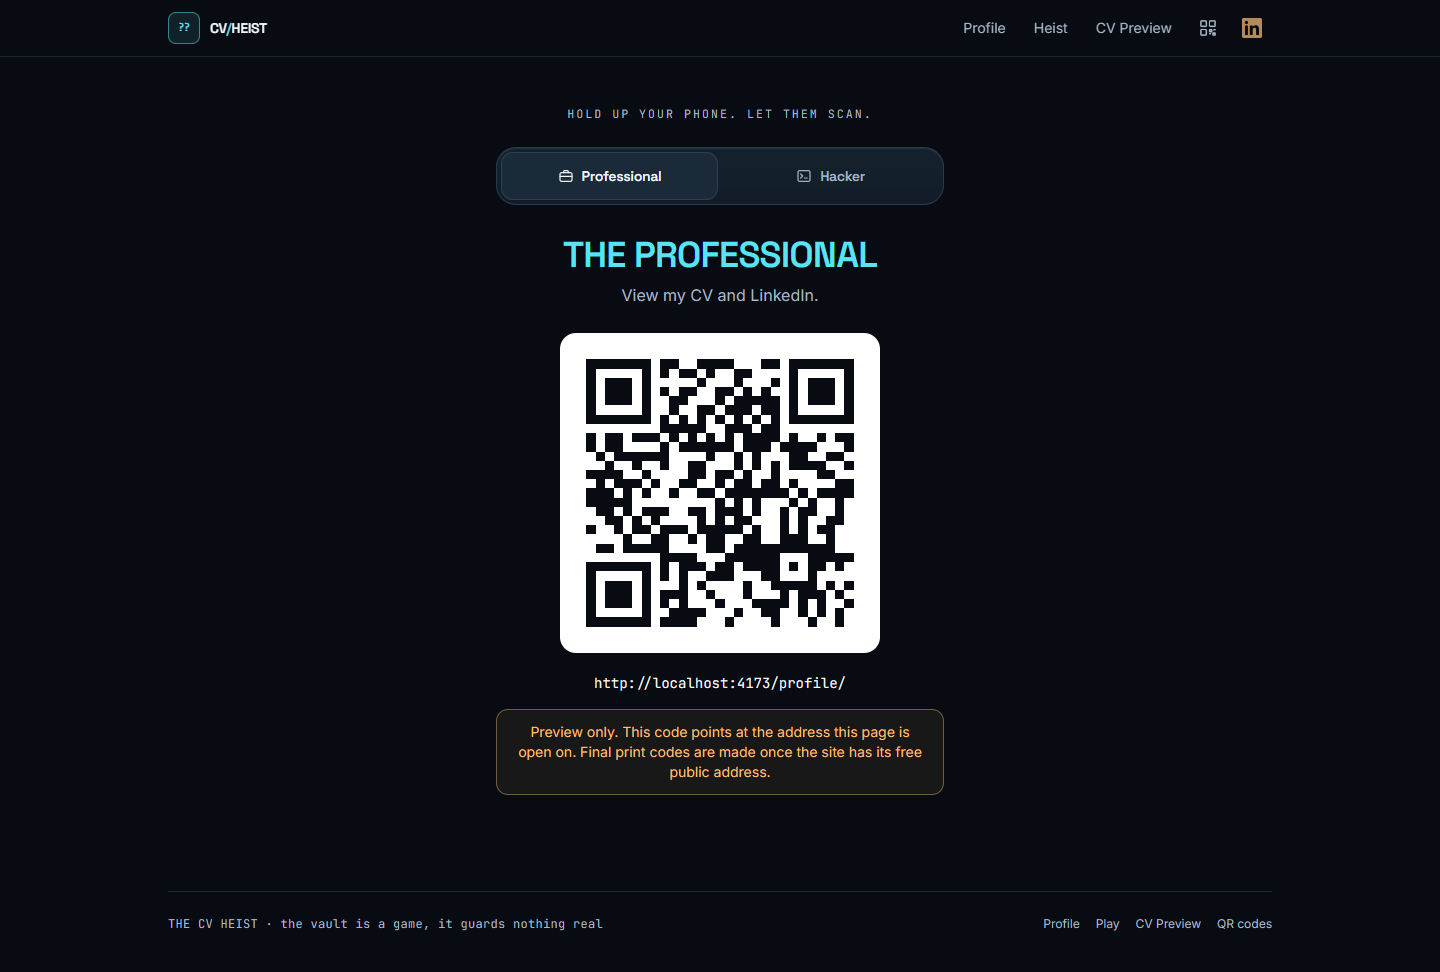
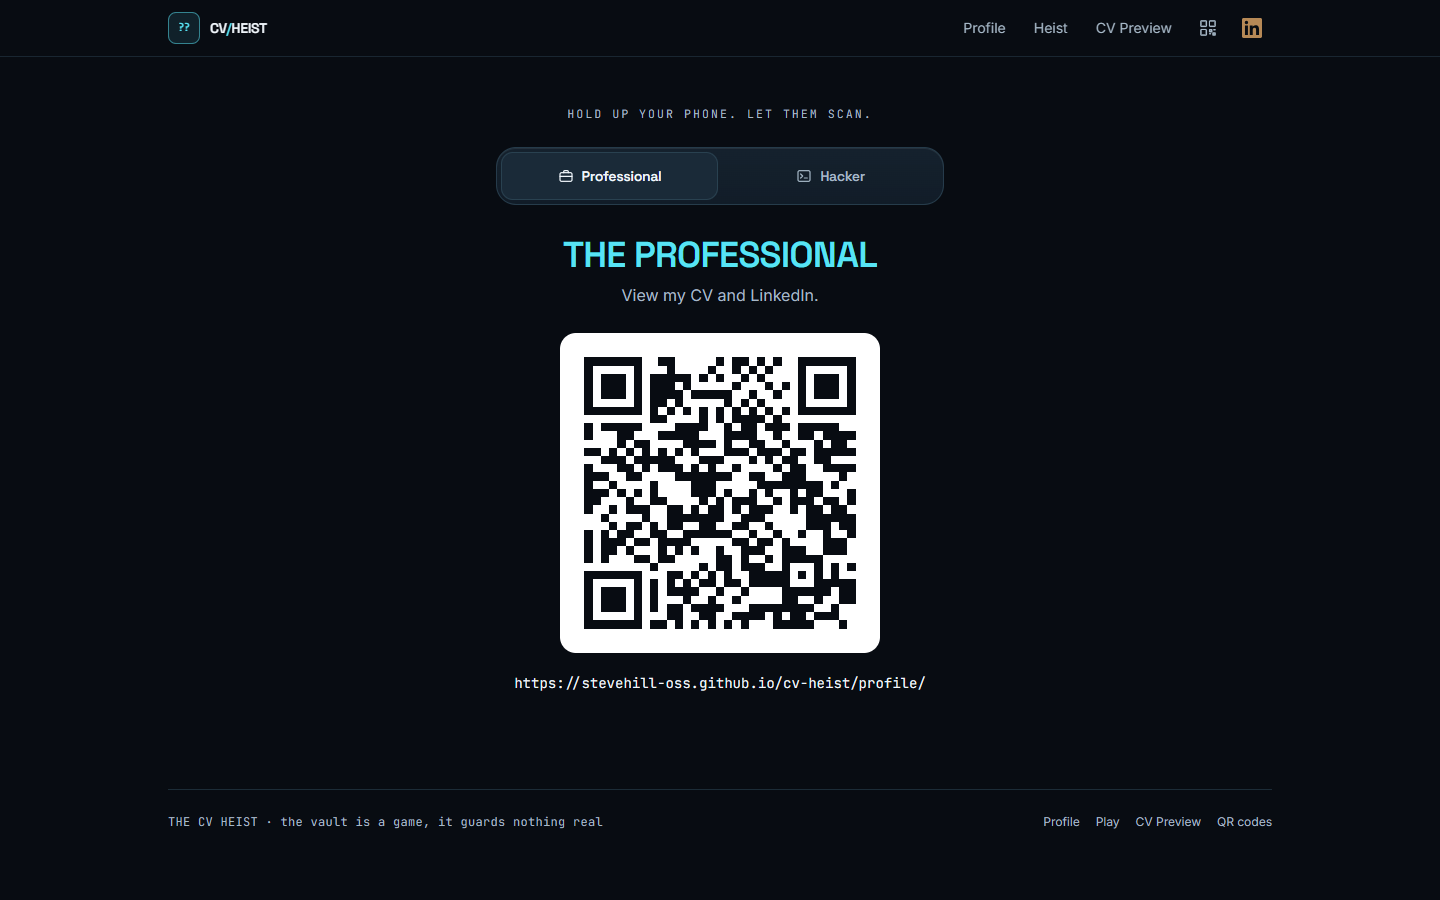
Point site and QR codes at GitHub Pages address

diff --git a/src/content/candidate.ts b/src/content/candidate.ts
@@ -37,5 +37,5 @@ export const candidate: CandidateProfile = {
 export const site: SiteConfig = {
   // Set once the free hosting address is known, e.g.
   // "https://stevehill-oss.github.io/cv-heist" or "https://cv-heist.vercel.app"
-  siteUrl: null,
+  siteUrl: "https://stevehill-oss.github.io/cv-heist",
 };
